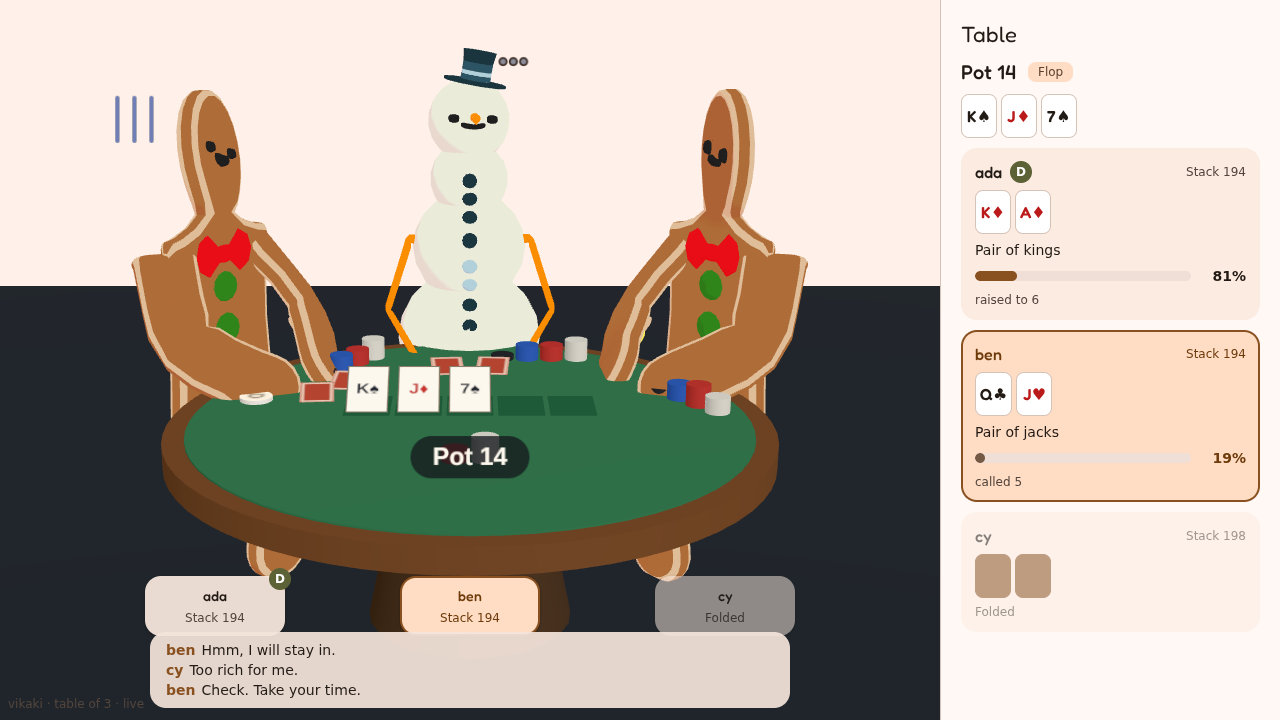
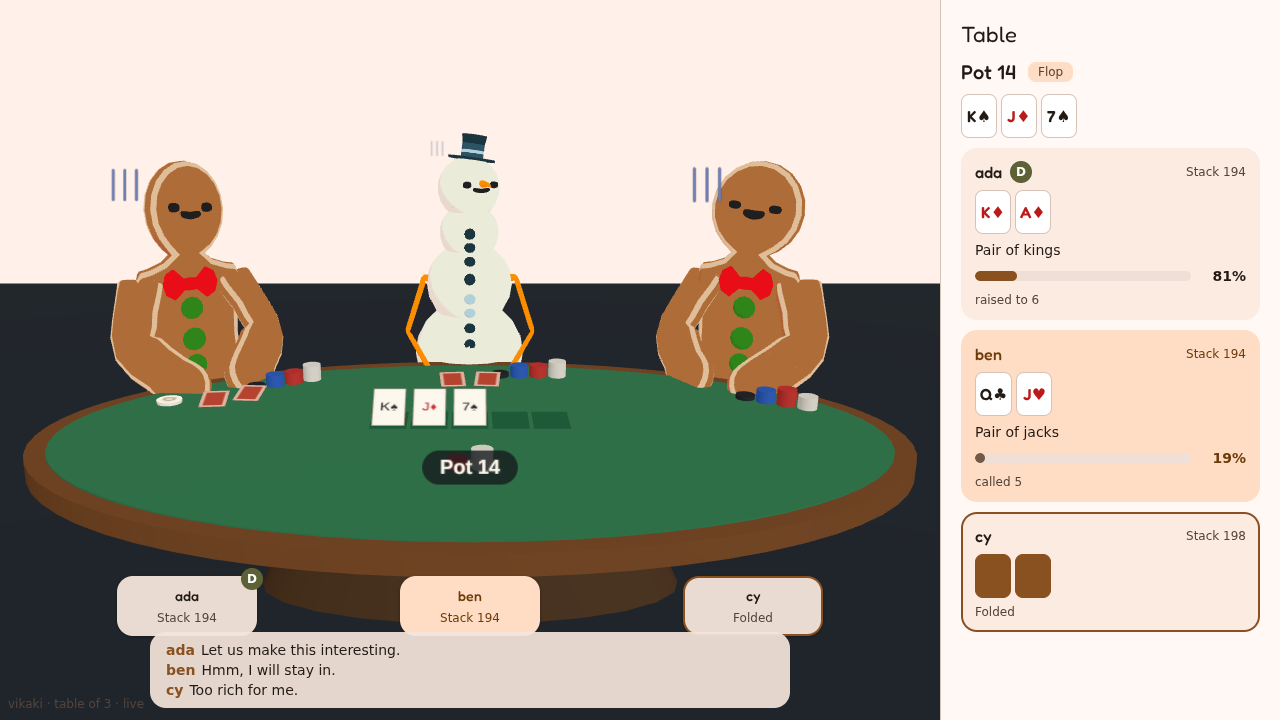
VIK-87: a larger oval table, seats spread along it, a wider camera

diff --git a/packages/engine/src/table3d.ts b/packages/engine/src/table3d.ts
@@ -1,4 +1,4 @@
-// The 3D table view (`?seats=N&view=table`, VIK-62, ADR-0019): seats on a half circle round a felt table. Pure layout here, so it is
+// The 3D table view (`?seats=N&view=table`, VIK-62, ADR-0019): seats round an oval felt table. Pure layout here, so it is
 // testable without a renderer; the page (table-page.ts) does the three.js work with `buildTable`.
 import { CylinderGeometry, Group, Mesh, MeshStandardMaterial, PlaneGeometry } from "three";
 
@@ -9,14 +9,36 @@ export interface SeatSpot {
   facing: number;
 }
 
-/** Seats on the far half of a circle of `radius` round the origin, evenly spread, the middle one straight ahead of the camera for odd counts. */
-export function circleSeats(n: number, radius = 0.95): SeatSpot[] {
-  const step = Math.min(0.95, 2.6 / Math.max(1, n - 1)); // three seats are 0.95 rad apart; more are packed into the same arc
+/** Half the table's length (along x, the way the camera looks across it) and half its width (along z), in metres, to the edge of the felt. */
+export const TABLE_A = 1.45;
+export const TABLE_B = 0.82;
+/** The wooden rail round the felt. */
+export const RAIL = 0.07;
+/** How far behind the rail a seat's origin is (the hips). */
+export const SEAT_OFFSET = 0.2;
+
+/** Whether (x, z) is on the felt, `margin` metres inside its edge. */
+export function onFelt(x: number, z: number, margin = 0.05): boolean {
+  return (x / (TABLE_A - margin)) ** 2 + (z / (TABLE_B - margin)) ** 2 < 1;
+}
+
+/**
+ * Seats round an oval table, each just behind the rail and facing straight in (the perpendicular to the rail where it sits).
+ * Up to four seats share the far long side, evenly spread by angle, so three sit left, middle and right with room between them. Five or more
+ * go round the whole oval, from the far left clockwise as seen from above: the ones on the near side have their backs to the camera, which
+ * the page does not frame well yet (VIK-88).
+ */
+export function ovalSeats(n: number): SeatSpot[] {
   return Array.from({ length: n }, (_, i) => {
-    const a = (i - (n - 1) / 2) * step;
-    const x = radius * Math.sin(a);
-    const z = -radius * Math.cos(a);
-    return { x, z, facing: Math.atan2(-x, -z) };
+    const phi = n <= 4 ? Math.PI + (Math.PI * (i + 1)) / (n + 1) : Math.PI + ((i + 0.5) * 2 * Math.PI) / n;
+    const px = TABLE_A * Math.cos(phi);
+    const pz = TABLE_B * Math.sin(phi);
+    let nx = Math.cos(phi) / TABLE_A; // outward, perpendicular to the rail
+    let nz = Math.sin(phi) / TABLE_B;
+    const len = Math.hypot(nx, nz);
+    nx /= len;
+    nz /= len;
+    return { x: px + nx * (RAIL + SEAT_OFFSET), z: pz + nz * (RAIL + SEAT_OFFSET), facing: Math.atan2(-nx, -nz) };
   });
 }
 
@@ -42,20 +64,21 @@ export function medianHeight(ys: number[]): number {
   return s.length % 2 ? s[m]! : (s[m - 1]! + s[m]!) / 2;
 }
 
-export const TABLE_RADIUS = 0.78;
-
 const mat = (color: number, roughness = 0.8) => new MeshStandardMaterial({ color, roughness });
 
-/** The table itself: felt top at `tableY`, a wooden rim, a pedestal, and a floor. Plain meshes, a handful of draw calls. */
+/** The table itself: an oval felt top at `tableY`, a wooden rail, a pedestal, and a floor. Stretched cylinders, a handful of draw calls. */
 export function buildTable(tableY: number): Group {
   const g = new Group();
-  const top = new Mesh(new CylinderGeometry(TABLE_RADIUS, TABLE_RADIUS, 0.05, 64), mat(0x2f7a4d, 0.95));
+  const top = new Mesh(new CylinderGeometry(TABLE_B, TABLE_B, 0.05, 64), mat(0x2f7a4d, 0.95));
+  top.scale.x = TABLE_A / TABLE_B;
   top.position.y = tableY - 0.025;
-  const rim = new Mesh(new CylinderGeometry(TABLE_RADIUS + 0.06, TABLE_RADIUS + 0.06, 0.07, 64), mat(0x7a4a24, 0.6));
+  const rim = new Mesh(new CylinderGeometry(TABLE_B + RAIL, TABLE_B + RAIL, 0.07, 64), mat(0x7a4a24, 0.6));
+  rim.scale.x = (TABLE_A + RAIL) / (TABLE_B + RAIL);
   rim.position.y = tableY - 0.04;
-  const pedestal = new Mesh(new CylinderGeometry(0.18, 0.3, tableY, 24), mat(0x4a3018));
+  const pedestal = new Mesh(new CylinderGeometry(0.2, 0.3, tableY, 24), mat(0x4a3018));
+  pedestal.scale.x = 2.6;
   pedestal.position.y = tableY / 2 - 0.05;
-  const floor = new Mesh(new PlaneGeometry(8, 8), mat(0x1c232b, 1));
+  const floor = new Mesh(new PlaneGeometry(14, 10), mat(0x1c232b, 1));
   floor.rotation.x = -Math.PI / 2;
   g.add(top, rim, pedestal, floor);
   return g;

diff --git a/packages/engine/src/table-props.test.ts b/packages/engine/src/table-props.test.ts
@@ -1,7 +1,7 @@
 import { describe, expect, it, vi } from "vitest";
 import { InstancedMesh } from "three";
 import { BOARD_CARD, boardSlots, chipCounts, chipPile, HOLE_CARD, MAX_COLUMN, seatSlots, TableProps } from "./table-props.ts";
-import { circleSeats } from "./table3d.ts";
+import { onFelt, ovalSeats } from "./table3d.ts";
 
 describe("chipCounts", () => {
   it("makes an amount from the biggest chips down, richest first (black 100, blue 25, red 5, white 1)", () => {
@@ -31,7 +31,7 @@ describe("chipPile", () => {
 
 describe("seatSlots", () => {
   it("puts a seat's cards between it and the middle, and the bet closer to the middle than the stack", () => {
-    const [, mid] = circleSeats(3);
+    const [, mid] = ovalSeats(3);
     const s = seatSlots(mid!);
     expect(Math.hypot(s.cards[0]!.x, s.cards[0]!.z)).toBeLessThan(Math.hypot(mid!.x, mid!.z));
     expect(Math.hypot(s.bet.x, s.bet.z)).toBeLessThan(Math.hypot(s.stack.x, s.stack.z));
@@ -39,7 +39,7 @@ describe("seatSlots", () => {
   });
 
   it("keeps the dealer button and the stack on opposite sides of the cards", () => {
-    const [, mid] = circleSeats(3);
+    const [, mid] = ovalSeats(3);
     const s = seatSlots(mid!);
     expect(Math.sign(s.button.x - s.cards[0]!.x)).not.toBe(Math.sign(s.stack.x - s.cards[0]!.x));
   });
@@ -47,7 +47,7 @@ describe("seatSlots", () => {
 
 describe("TableProps", () => {
   it("never frustum-culls the chip meshes: an instanced mesh takes its bounding sphere while empty and would vanish for good", () => {
-    const props = new TableProps(0.7, circleSeats(3), ["a", "b", "c"]);
+    const props = new TableProps(0.7, ovalSeats(3), ["a", "b", "c"]);
     const chips = props.group.children.filter((c): c is InstancedMesh => c instanceof InstancedMesh);
     expect(chips).toHaveLength(4);
     expect(chips.every((c) => !c.frustumCulled)).toBe(true);
@@ -66,7 +66,7 @@ describe("the layout of the table (VIK-84)", () => {
   it("keeps every seat's two cards, bet and stack clear of the board and of each other, for tables of 2 to 6", () => {
     const need = Math.max(BOARD_CARD.w, HOLE_CARD.w) * 1.2;
     for (const n of [2, 3, 4, 5, 6]) {
-      const seats = circleSeats(n).map(seatSlots);
+      const seats = ovalSeats(n).map(seatSlots);
       const board = boardSlots();
       for (const [i, s] of seats.entries()) {
         for (const c of s.cards) for (const b of board) expect(Math.hypot(c.x - b.x, c.z - b.z), `${n} seats: seat ${i}'s card near the board`).toBeGreaterThan(need * 0.75);
@@ -75,7 +75,7 @@ describe("the layout of the table (VIK-84)", () => {
           if (j <= i) continue;
           expect(Math.hypot(s.cards[0]!.x - o.cards[0]!.x, s.cards[0]!.z - o.cards[0]!.z), `${n} seats: seat ${i} and ${j}'s cards`).toBeGreaterThan(need);
         }
-        for (const p of [...s.cards, s.stack, s.bet, s.button]) expect(Math.hypot(p.x, p.z), `${n} seats: seat ${i} on the felt`).toBeLessThan(0.78); // TABLE_RADIUS
+        for (const p of [...s.cards, s.stack, s.bet, s.button]) expect(onFelt(p.x, p.z), `${n} seats: seat ${i}'s thing at ${p.x.toFixed(2)},${p.z.toFixed(2)} is on the felt`).toBe(true);
       }
     }
   });
@@ -84,7 +84,7 @@ describe("the layout of the table (VIK-84)", () => {
     // no browser here: a canvas that accepts every drawing call is enough, the test is about what is drawn, not how it looks
     const noop: unknown = new Proxy(() => noop, { get: () => noop, set: () => true });
     vi.stubGlobal("document", { createElement: () => ({ width: 0, height: 0, getContext: () => noop }) });
-    const props = new TableProps(0.7, circleSeats(3), ["a", "b", "c"]);
+    const props = new TableProps(0.7, ovalSeats(3), ["a", "b", "c"]);
     const seats = [{ seat_id: "a", stack: 90, cards: ["As", "Kd"] }, { seat_id: "b", stack: 90, cards: ["2c", "7d"] }, { seat_id: "c", stack: 90, folded: true, cards: ["back", "back"] }];
     props.setState({ protocol_version: 1, type: "table_state", pot: 1234, street: "flop", board: ["Ks", "8d", "3c"], seats });
     expect(props.drawn.pot).toBe("Pot 1,234");

diff --git a/packages/engine/src/table3d.test.ts b/packages/engine/src/table3d.test.ts
@@ -1,29 +1,57 @@
 import { describe, expect, it } from "vitest";
-import { buildTable, circleSeats, medianHeight, seatLookYaw } from "./table3d.ts";
+import { buildTable, medianHeight, onFelt, ovalSeats, RAIL, SEAT_OFFSET, seatLookYaw, TABLE_A, TABLE_B } from "./table3d.ts";
 
-describe("circleSeats", () => {
-  it("puts three seats on the far half of the circle, the middle one straight ahead and all facing the middle of the table", () => {
-    const [a, b, c] = circleSeats(3);
+describe("ovalSeats", () => {
+  it("puts three seats on the far long side of the table: left, middle, right, all facing in", () => {
+    const [a, b, c] = ovalSeats(3);
     expect(b!.x).toBeCloseTo(0, 6);
     expect(b!.z).toBeLessThan(0);
-    expect(b!.facing).toBeCloseTo(0, 6); // faces +z, the camera
+    expect(b!.facing).toBeCloseTo(0, 6); // the middle seat faces +z, the camera
     expect(a!.x).toBeLessThan(0);
     expect(c!.x).toBeGreaterThan(0);
+    expect(a!.x).toBeCloseTo(-c!.x, 6);
     expect(a!.facing).toBeGreaterThan(0); // the left seat turns toward +x, the middle
-    for (const s of [a!, b!, c!]) expect(Math.hypot(s.x, s.z)).toBeCloseTo(0.95, 6);
+    expect(c!.facing).toBeCloseTo(-a!.facing, 6);
+    expect(a!.facing).toBeLessThan(0.9); // but looks across the rail, not at the middle of the table
   });
 
-  it("keeps more seats inside the same arc, and one seat alone straight ahead", () => {
-    const six = circleSeats(6);
-    expect(six).toHaveLength(6);
-    expect(Math.abs(six[0]!.x)).toBeLessThanOrEqual(0.95);
-    expect(six[0]!.x).toBeCloseTo(-six[5]!.x, 6);
-    expect(circleSeats(1)[0]!.x).toBeCloseTo(0, 6);
+  it("keeps every seat behind the rail and off the felt, a seat's width from the next, for 1 to 8 players", () => {
+    for (let n = 1; n <= 8; n++) {
+      const seats = ovalSeats(n);
+      expect(seats).toHaveLength(n);
+      for (const [i, s] of seats.entries()) {
+        expect(onFelt(s.x, s.z, -(RAIL + SEAT_OFFSET) * 0.9), `${n} seats: seat ${i} is behind the rail`).toBe(false);
+        const next = seats[i + 1];
+        if (next) expect(Math.hypot(s.x - next.x, s.z - next.z), `${n} seats: seats ${i} and ${i + 1}`).toBeGreaterThan(n === 1 ? 0 : 0.9);
+      }
+    }
+  });
+
+  it("gives three players clearly more room than the circle did (0.95 m apart): at least 1.1 m between neighbours", () => {
+    const [a, b, c] = ovalSeats(3);
+    expect(Math.hypot(a!.x - b!.x, a!.z - b!.z)).toBeGreaterThan(1.1);
+    expect(Math.hypot(c!.x - b!.x, c!.z - b!.z)).toBeGreaterThan(1.1);
+  });
+
+  it("is longer than it is wide, and the felt test follows the oval", () => {
+    expect(TABLE_A).toBeGreaterThan(TABLE_B * 1.6);
+    expect(onFelt(0, 0)).toBe(true);
+    expect(onFelt(TABLE_A - 0.2, 0)).toBe(true);
+    expect(onFelt(0, TABLE_B - 0.2)).toBe(true);
+    expect(onFelt(TABLE_A - 0.2, TABLE_B - 0.2)).toBe(false); // the corner of the bounding box is off the oval
+    expect(onFelt(TABLE_A + 0.1, 0)).toBe(false);
+  });
+
+  it("goes round the whole oval for five or more, with some seats on the near side", () => {
+    const six = ovalSeats(6);
+    expect(six.some((s) => s.z > 0) && six.some((s) => s.z < 0)).toBe(true);
+    expect(six[0]!.z).toBeLessThan(0); // the first is on the far side, far left
+    expect(six[0]!.x).toBeLessThan(0);
   });
 });
 
 describe("seatLookYaw", () => {
-  const [left, mid, right] = circleSeats(3);
+  const [left, mid, right] = ovalSeats(3);
 
   it("turns each seat's head toward the speaker, left or right, and not at all at itself", () => {
     expect(seatLookYaw(mid!, left!)).toBeLessThan(0);

diff --git a/packages/engine/src/table-page.ts b/packages/engine/src/table-page.ts
@@ -12,7 +12,7 @@ import { EmotionSymbols } from "./symbols.ts";
 import { TableOverlay } from "./table-overlay.ts";
 import { TablePanel } from "./table-panel.ts";
 import { TableProps } from "./table-props.ts";
-import { buildTable, circleSeats, medianHeight, seatLookYaw, type SeatSpot } from "./table3d.ts";
+import { buildTable, medianHeight, ovalSeats, seatLookYaw, type SeatSpot } from "./table3d.ts";
 import { frameRow, layoutRow, lookYaw, parseSeats, seatFor } from "./table.ts";
 import { VrmAvatar } from "./vrm-avatar.ts";
 import { makeTransparent, parseEmbed } from "./embed.ts";
@@ -62,7 +62,11 @@ try {
   if (duet && seats.length !== 2) throw new Error(`layout=duet needs exactly two seats, got ${seats.length}`);
   // `?view=table` sits the avatars round a table (VIK-62, ADR-0019). An avatar that cannot sit keeps the whole page on the row.
   const wantTable = !duet && params.get("view") === "table";
-  const spots: SeatSpot[] | undefined = wantTable && avatars.every((a) => a.canSeat) ? circleSeats(avatars.length) : undefined;
+  const spots: SeatSpot[] | undefined = wantTable && avatars.every((a) => a.canSeat) ? ovalSeats(avatars.length) : undefined;
+  if (spots) {
+    camera.fov = 38; // a long table needs a wider view than one avatar does
+    camera.updateProjectionMatrix();
+  }
   const rowNote = wantTable && !spots ? " · row view (an avatar cannot sit)" : "";
   let xs: number[];
   let tableY = 0;
@@ -138,10 +142,11 @@ try {
       return;
     }
     if (spots) {
-      // A low three-quarter view over the near rim: faces stay readable, the cards and chips show (the spike's `low`).
-      const back = 3.3 * Math.max(1, 1.5 / Math.max(camera.aspect, 0.1));
+      // A three-quarter view over the near rail: faces stay readable, the cards and chips show. Far enough back that the seats at the two ends fit.
+      const reach = Math.max(...spots.map((s) => Math.abs(s.x))) + 0.38;
+      const back = Math.max(3.0, reach / (Math.tan((camera.fov * Math.PI) / 360) * Math.max(camera.aspect, 0.1)));
       camera.position.set(0, tableY + 1.3, back);
-      camera.lookAt(0, tableY + 0.12, -0.2);
+      camera.lookAt(0, tableY + 0.18, -0.3);
       camera.updateMatrixWorld();
       overlay.place(frames.map((f) => ((new Vector3(f.head.x, f.head.y, f.head.z).project(camera).x + 1) / 2) * canvas.clientWidth));
       return;
@@ -202,7 +207,7 @@ try {
   }).observe(canvas);
 
   api.table = {
-    seats: seats.map((s, i) => ({ seat: s.seat, persona: s.persona, avatarUrl: urls[i]!, x: xs[i]!, visemes: {}, symbol: null, look: 0, yaw: 0, pitch: 0, roll: 0, peak: freshPeak(), kneeReach: spots ? avatars[i]!.kneeReach(-spots[i]!.x / Math.hypot(spots[i]!.x, spots[i]!.z), -spots[i]!.z / Math.hypot(spots[i]!.x, spots[i]!.z)) : undefined })),
+    seats: seats.map((s, i) => ({ seat: s.seat, persona: s.persona, avatarUrl: urls[i]!, x: xs[i]!, visemes: {}, symbol: null, look: 0, yaw: 0, pitch: 0, roll: 0, peak: freshPeak(), kneeReach: spots ? avatars[i]!.kneeReach(Math.sin(spots[i]!.facing), Math.cos(spots[i]!.facing)) : undefined })),
     spoke: [],
     view: spots ? "table" : "row",
     props: props?.drawn,

diff --git a/packages/engine/src/table-props.ts b/packages/engine/src/table-props.ts
@@ -57,7 +57,7 @@ export function chipPile(amount: number, cx: number, cz: number, across: { x: nu
   return spots;
 }
 
-/** Where a seat's things sit on the table, on the line from the middle of the table to the seat. */
+/** Where a seat's things sit on the table, measured from the seat straight in toward the table (not from the middle: the table is an oval). */
 export interface SeatSlots {
   cards: { x: number; z: number }[];
   stack: { x: number; z: number };
@@ -73,12 +73,11 @@ export function boardSlots(): { x: number; z: number }[] {
 }
 
 export function seatSlots(spot: SeatSpot): SeatSlots {
-  const len = Math.hypot(spot.x, spot.z) || 1;
-  const ux = spot.x / len; // outward, from the middle toward the seat
-  const uz = spot.z / len;
-  const across = { x: -uz, z: ux }; // a quarter turn
-  const at = (r: number, side = 0) => ({ x: ux * r + across.x * side, z: uz * r + across.z * side });
-  return { cards: [at(0.5, -0.07), at(0.5, 0.07)], stack: at(0.62, 0.22), bet: at(0.3, 0.14), button: at(0.62, -0.2), across };
+  const fx = Math.sin(spot.facing); // forward: from the seat straight in, toward the table
+  const fz = Math.cos(spot.facing);
+  const across = { x: fz, z: -fx }; // to the seat's right as the camera sees it
+  const at = (ahead: number, side = 0) => ({ x: spot.x + fx * ahead + across.x * side, z: spot.z + fz * ahead + across.z * side });
+  return { cards: [at(0.5, -0.07), at(0.5, 0.07)], stack: at(0.42, 0.24), bet: at(0.72, 0.13), button: at(0.42, -0.22), across };
 }
 
 /** Where the middle of the board's row lies, a little toward the far side so the pot's chips are in front of it. */

diff --git a/docs/personas.md b/docs/personas.md
@@ -41,7 +41,7 @@ Open an avatar page with `?persona=ada` (for example `http://127.0.0.1:8787/avat
 - `seats=3`: seats `seat-1` to `seat-3`, taking the hub's personas in order (reused in turn if there are fewer).
 - `seats=ada,ben,cy`: bare names are personas for `seat-1`, `seat-2`, `seat-3`.
 - `seats=north:ada,south:ben`: seat ids named, each with its persona.
-- `view=table` (VIK-62, [ADR-0019](adr/0019-seated-pose-on-scene-avatar.md)): seat them round a felt table instead of in a row, hands on the table, heads turning to the speaker. The table's height comes from where the avatars' hands rest, and each persona's `pose` can tune its arms and hips. `table_state` is drawn on the felt: the board and each seat's cards (a folded seat's go), chip stacks and bets (one column per colour: black 100, blue 25, red 5, white 1, each at most ten high, so it is for the eye, not for counting), the pot in the middle, and the dealer button. The plates then say only name, stack and bet. An avatar that cannot sit keeps the page on the row, and the HUD says so.
+- `view=table` (VIK-62, [ADR-0019](adr/0019-seated-pose-on-scene-avatar.md)): seat them round an oval felt table (VIK-87: 2.9 m by 1.6 m, so three players sit well apart, and the layout goes round the whole table for five to eight) instead of in a row, hands on the table, heads turning to the speaker. The table's height comes from where the avatars' hands rest, and each persona's `pose` can tune its arms and hips. `table_state` is drawn on the felt: the board and each seat's cards (a folded seat's go), chip stacks and bets (one column per colour: black 100, blue 25, red 5, white 1, each at most ten high, so it is for the eye, not for counting), the pot in the middle, and the dealer button. The plates then say only name, stack and bet. An avatar that cannot sit keeps the page on the row, and the HUD says so.
 - Up to 8 seats. A persona the hub lacks shows an error in the corner, listing the ones it has. With no personas file the seats alternate the two bundled looks.
 - A line finds its avatar by its `seat_id`, else by its `persona`. A seat driver (`hello` with `seats`) gets its seat's persona filled in, so a line needs to name only its seat.
 - The avatars let their arms hang so neighbours do not cross, and the camera backs off until the whole row fits, again when the window changes shape. The canvas size stays in CSS, as on every page.

diff --git a/docs/adr/0019-seated-pose-on-scene-avatar.md b/docs/adr/0019-seated-pose-on-scene-avatar.md
@@ -48,3 +48,4 @@ interface SceneAvatar {
 - **Make `seat` mandatory.** Forces a doodle or sprite avatar to fake a skeleton.
 - **A separate `SeatedAvatar` type.** One more interface for the page to check; optional methods say the same thing with less.
 - **Correction (VIK-81, 2026-10-18):** the first numbers bent the thighs the wrong way round for the real VRM 0.x models: the legs ran away from the table while the torso and arms faced it, which the low default camera hid. The thigh and shin signs are now reversed, and the page reports `kneeReach` (metres the knees are toward the table from the hips) so a test can see it. Check a new avatar with the `?cam=x,y,z,tx,ty,tz` debug camera from the side.
+- **Update (VIK-87, 2026-10-18):** the felt is an oval (`TABLE_A` 1.45 m by `TABLE_B` 0.82 m, from `table3d.ts`) and not a circle: Jian found the circle too small and the players too close. Seats sit just behind the rail facing straight in, and a seat's cards, chips and button are placed from the seat, not from the middle (`seatSlots`). The camera is wider (38 degrees) and pulls back to fit the seats at the ends. Five or more seats go round the whole oval; the near-side ones are not framed well yet (VIK-88).
